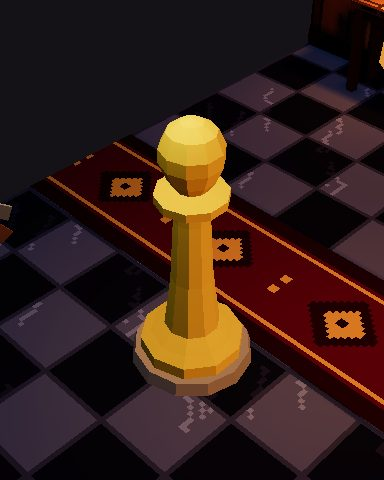
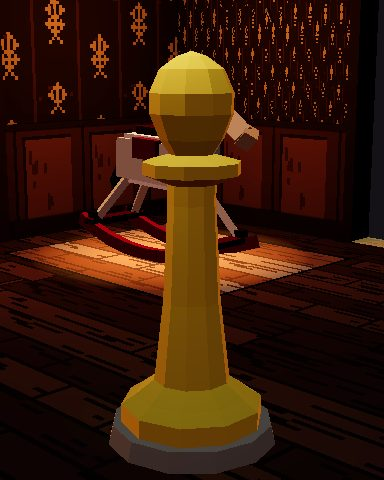
art(betrayal): setup portraits from a lower, closer camera

diff --git a/src/projects/betrayal/art/bench.ts b/src/projects/betrayal/art/bench.ts
@@ -34,7 +34,8 @@ import { countBadge, PLACEMENT_PRESETS, placementPreset, type CrowdFigure } from
 export type Resolution = number | null;
 const RESOLUTIONS: Resolution[] = [270, 360, 540, 720, 1080, null];
 const DEFAULT_RESOLUTION: Resolution = null;
-const ELEVATION = THREE.MathUtils.degToRad(40);
+/** How far above level the presets look down at the subject, in degrees. */
+const DEFAULT_TILT = 40;
 /** How far the room reaches from its centre on screen: across (corner to
  *  corner, seen diagonally) and up and down. */
 const ROOM_HALF_WIDTH = 4.5;
@@ -68,6 +69,8 @@ export interface BenchSnapshot {
   roomName: string;
   view: number;
   zoom: number;
+  /** How far above level the camera looks down, in degrees: 0 is eye level, 90 straight down. */
+  tilt: number;
   resolution: Resolution;
   explorer: string;
   subject: Subject;
@@ -83,6 +86,7 @@ export interface BenchApi {
   setRoom: (id: string) => void;
   setView: (view: number) => void;
   setZoom: (zoom: number) => void;
+  setTilt: (degrees: number) => void;
   setResolution: (resolution: Resolution) => void;
   /** Who stands in the room: one explorer on its prime place, or a crowd placed by the solver (see `explorers()`). */
   setExplorer: (id: string) => void;
@@ -257,6 +261,7 @@ export function createBench(initialRoom: string, initialExplorer: string | null 
     roomName: benchRoomName(firstRoom),
     view: 0,
     zoom: ZOOMS[0],
+    tilt: DEFAULT_TILT,
     resolution: DEFAULT_RESOLUTION,
     explorer: initialExplorer === null ? BENCH_EXPLORERS[0].id : explorer(initialExplorer).id,
     subject: framingSubject(framing),
@@ -298,6 +303,10 @@ export function createBench(initialRoom: string, initialExplorer: string | null 
     },
     setZoom: (zoom) => {
       update({ ...snapshot, zoom });
+      mounted?.settle();
+    },
+    setTilt: (degrees) => {
+      update({ ...snapshot, tilt: degrees });
       mounted?.settle();
     },
     setResolution: (resolution) => {
@@ -467,10 +476,11 @@ export function createBench(initialRoom: string, initialExplorer: string | null 
             : ROOM_RADIUS;
       const distance = (fit * radius) / ROOM_RADIUS;
       const target = presetTarget();
+      const elevation = THREE.MathUtils.degToRad(snapshot.tilt);
       const direction = new THREE.Vector3(
-        Math.sin(angle) * Math.cos(ELEVATION),
-        Math.sin(ELEVATION),
-        Math.cos(angle) * Math.cos(ELEVATION),
+        Math.sin(angle) * Math.cos(elevation),
+        Math.sin(elevation),
+        Math.cos(angle) * Math.cos(elevation),
       );
       camera.position.copy(target).addScaledVector(direction, distance / zoom);
       camera.lookAt(target);
